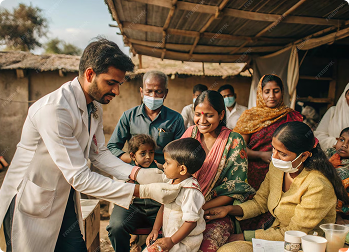
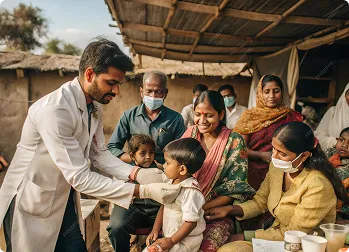
replace image formats with WebP for improved performance and reduce file sizes

diff --git a/src/lib/constants.ts b/src/lib/constants.ts
@@ -58,21 +58,21 @@ export const PROGRAMS = [
     title: "Service to the Needy",
     description:
       "Distribution of food to underprivileged individuals and families. Providing books, stationery, and learning materials to students in need. Support for basic necessities during emergencies and crises.",
-    image: "/do_1.png",
+    image: "/do_1.webp",
     icon: "Utensils" as const,
   },
   {
     title: "Education & Awareness Programs",
     description:
       "Awareness sessions for students, teenagers, and the general public. Health awareness programs focusing on physical and mental well-being. Sex education programs for teenagers. Campaigns on social values.",
-    image: "/do_2.jpg",
+    image: "/do_2.webp",
     icon: "BookOpen" as const,
   },
   {
     title: "Health & Well-being Initiatives",
     description:
       "Health awareness drives in schools and communities. Collaboration with professionals for seminars and workshops on hygiene, nutrition, and mental health. Promoting preventive healthcare.",
-    image: "/do_3.png",
+    image: "/do_3.webp",
     icon: "Heart" as const,
   },
   {
@@ -100,7 +100,7 @@ export const PROGRAMS = [
 
 export const ACTIVITIES = [
   {
-    image: "/about_4.jpeg",
+    image: "/about_4.webp",
     badge: "Environment",
     badgeColor: "bg-emerald-500",
     title: "Tree Plantation Drive",
@@ -109,7 +109,7 @@ export const ACTIVITIES = [
       "Planted 50 saplings with local volunteers, creating greener futures for the next generation.",
   },
   {
-    image: "/program_2.jpg",
+    image: "/program_2.webp",
     badge: "Education",
     badgeColor: "bg-blue-500",
     title: "School Awareness Session",

diff --git a/src/components/sections/WhoWeAre.tsx b/src/components/sections/WhoWeAre.tsx
@@ -67,7 +67,7 @@ export default function WhoWeAre() {
 									variants={gridItemVariants}
 									className="relative aspect-[3/4] overflow-hidden rounded-2xl shadow-lg ring-1 ring-hp-primary/10 sm:rounded-3xl"
 								>
-									<Image src="/about-joy.png" alt="Joyful children supported by Hridayam Hope" fill className="object-cover" />
+									<Image src="/about-joy.webp" alt="Joyful children supported by Hridayam Hope" fill className="object-cover" />
 								</motion.div>
 								<motion.div
 									whileHover="hover"
@@ -91,7 +91,7 @@ export default function WhoWeAre() {
 									variants={gridItemVariants}
 									className="relative aspect-[3/4] overflow-hidden rounded-2xl shadow-lg ring-1 ring-hp-primary/10 sm:rounded-3xl"
 								>
-									<Image src="/about_4.jpeg" alt="Education support program" fill className="object-cover" />
+									<Image src="/about_4.webp" alt="Education support program" fill className="object-cover" />
 								</motion.div>
 							</div>
 						</div>

diff --git a/src/lib/blog-data.ts b/src/lib/blog-data.ts
@@ -88,7 +88,7 @@ export const BLOG_POSTS: BlogPost[] = [
 			},
 		],
 		category: 'Education',
-		featuredImage: '/program_2.jpg',
+		featuredImage: '/program_2.webp',
 		author: BLOG_AUTHORS.kavita,
 		publishedAt: '2026-02-08',
 		readTime: 5,
@@ -136,7 +136,7 @@ export const BLOG_POSTS: BlogPost[] = [
 			},
 		],
 		category: 'Environment',
-		featuredImage: '/blog_2.JPG',
+		featuredImage: '/blog_2.webp',
 		author: BLOG_AUTHORS.rahul,
 		publishedAt: '2026-01-22',
 		readTime: 4,
@@ -192,7 +192,7 @@ export const BLOG_POSTS: BlogPost[] = [
 			},
 		],
 		category: 'Community',
-		featuredImage: '/volunteers.jpg',
+		featuredImage: '/volunteers.webp',
 		author: BLOG_AUTHORS.priya,
 		publishedAt: '2026-01-15',
 		readTime: 6,
